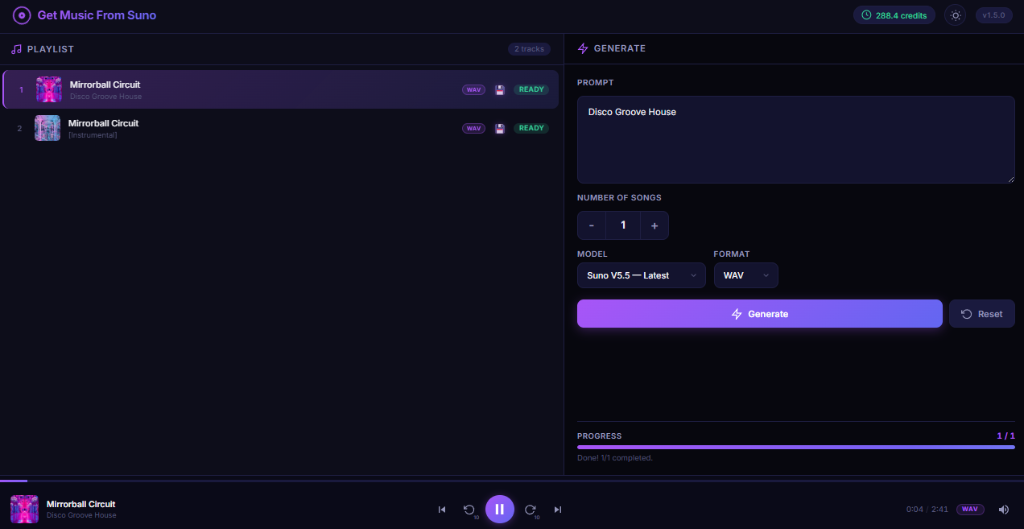
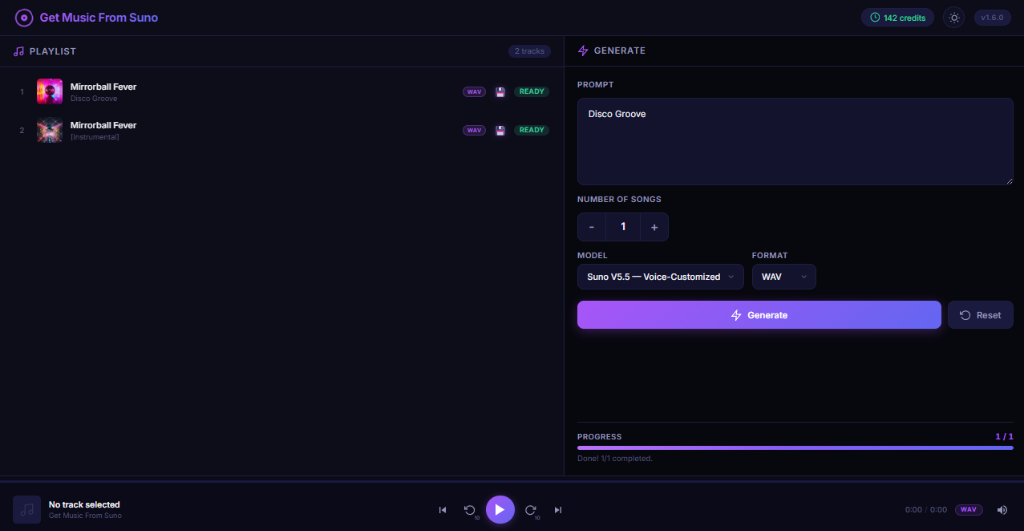
v1.6.1: Model tooltips, updated screenshots
- Custom model dropdown with hover tooltips showing descriptions

- Smart tooltip positioning (auto-flips near viewport edge)

- Body-appended tooltip to avoid backdrop-filter clipping

- Updated dark/light theme screenshots in README

- Bumped version to 1.6.1

diff --git a/public/style.css b/public/style.css
@@ -560,6 +560,166 @@ ul { list-style: none; }
   transform: translateY(-50%);
   color: var(--text-muted);
   pointer-events: none;
+  transition: transform var(--transition-fast);
+}
+
+/* ---------- Custom Model Dropdown ---------- */
+.model-dropdown-wrapper {
+  position: relative;
+  min-width: 200px;
+}
+
+.model-dropdown-trigger {
+  width: 100%;
+  padding: 10px 36px 10px 14px;
+  background: var(--bg-input);
+  border: 1px solid var(--border);
+  border-radius: var(--radius-md);
+  color: var(--text-primary);
+  font-family: inherit;
+  font-size: .85rem;
+  font-weight: 500;
+  cursor: pointer;
+  appearance: none;
+  display: flex;
+  align-items: center;
+  justify-content: space-between;
+  text-align: left;
+  transition: border-color var(--transition-fast), box-shadow var(--transition-fast);
+  position: relative;
+}
+.model-dropdown-trigger:hover {
+  border-color: var(--text-muted);
+}
+.model-dropdown-trigger:focus,
+.model-dropdown-wrapper.open .model-dropdown-trigger {
+  border-color: var(--accent-purple);
+  box-shadow: var(--shadow-glow);
+}
+
+.model-dropdown-wrapper.open .model-select-arrow {
+  transform: translateY(-50%) rotate(180deg);
+}
+
+.model-dropdown-value {
+  white-space: nowrap;
+  overflow: hidden;
+  text-overflow: ellipsis;
+  flex: 1;
+}
+
+/* Dropdown menu */
+.model-dropdown-menu {
+  position: absolute;
+  top: calc(100% + 4px);
+  left: 0;
+  right: 0;
+  background: var(--bg-panel);
+  border: 1px solid var(--border);
+  border-radius: var(--radius-md);
+  padding: 4px;
+  box-shadow: var(--shadow-md), 0 8px 32px rgba(0, 0, 0, .4);
+  z-index: 200;
+  opacity: 0;
+  visibility: hidden;
+  transform: translateY(-6px);
+  transition: opacity var(--transition-fast), transform var(--transition-fast), visibility var(--transition-fast);
+  backdrop-filter: blur(20px);
+}
+
+.model-dropdown-wrapper.open .model-dropdown-menu {
+  opacity: 1;
+  visibility: visible;
+  transform: translateY(0);
+}
+
+.model-dropdown-item {
+  display: flex;
+  align-items: center;
+  padding: 9px 12px;
+  border-radius: var(--radius-sm);
+  cursor: pointer;
+  font-size: .84rem;
+  font-weight: 500;
+  color: var(--text-primary);
+  transition: background var(--transition-fast), color var(--transition-fast);
+  position: relative;
+}
+.model-dropdown-item:hover {
+  background: var(--bg-panel-hover);
+}
+.model-dropdown-item.selected {
+  background: var(--gradient-glow);
+  color: var(--accent-purple);
+}
+.model-dropdown-item.selected::before {
+  content: '';
+  position: absolute;
+  left: 0;
+  top: 4px;
+  bottom: 4px;
+  width: 3px;
+  border-radius: 2px;
+  background: var(--gradient-primary);
+}
+
+.model-item-label {
+  flex: 1;
+  white-space: nowrap;
+  overflow: hidden;
+  text-overflow: ellipsis;
+}
+
+/* ---------- Model Tooltip Popup ---------- */
+.model-tooltip-popup {
+  position: fixed;
+  max-width: 260px;
+  padding: 12px 16px;
+  background: var(--bg-panel);
+  border: 1px solid var(--border);
+  border-radius: var(--radius-md);
+  box-shadow: var(--shadow-md), 0 8px 32px rgba(0, 0, 0, .5);
+  backdrop-filter: blur(20px);
+  z-index: 1000;
+  pointer-events: none;
+  opacity: 0;
+  visibility: hidden;
+  transition: opacity 180ms var(--ease), visibility 180ms var(--ease);
+  font-size: .78rem;
+  line-height: 1.55;
+  color: var(--text-secondary);
+  font-weight: 400;
+}
+
+.model-tooltip-popup.visible {
+  opacity: 1;
+  visibility: visible;
+}
+
+.model-tooltip-popup::before {
+  content: '';
+  position: absolute;
+  top: 50%;
+  width: 8px;
+  height: 8px;
+  background: var(--bg-panel);
+  border: 1px solid var(--border);
+  transform: translateY(-50%) rotate(45deg);
+}
+
+/* Arrow on the left side of tooltip (tooltip is to the right of menu) */
+.model-tooltip-popup.arrow-left::before {
+  left: -5px;
+  border-right: none;
+  border-top: none;
+}
+
+/* Arrow on the right side of tooltip (tooltip is to the left of menu) */
+.model-tooltip-popup.arrow-right::before {
+  right: -5px;
+  left: auto;
+  border-left: none;
+  border-bottom: none;
 }
 
 /* Actions */

diff --git a/public/app.js b/public/app.js
@@ -38,6 +38,10 @@
     btnGenerate: $('#btn-generate'),
     btnReset: $('#btn-reset'),
     modelSelect: $('#model-select'),
+    modelDropdown: $('#model-dropdown'),
+    modelDropdownTrigger: $('#model-dropdown-trigger'),
+    modelDropdownValue: $('#model-dropdown-value'),
+    modelDropdownMenu: $('#model-dropdown-menu'),
     formatSelect: $('#format-select'),
     // Progress
     progressCounter: $('#progress-counter'),
@@ -124,6 +128,77 @@
 
     // Theme toggle
     DOM.btnTheme.addEventListener('click', toggleTheme);
+
+    // Custom model dropdown
+    DOM.modelDropdownTrigger.addEventListener('click', (e) => {
+      e.stopPropagation();
+      DOM.modelDropdown.classList.toggle('open');
+    });
+
+    DOM.modelDropdownMenu.querySelectorAll('.model-dropdown-item').forEach(item => {
+      item.addEventListener('click', (e) => {
+        e.stopPropagation();
+        const value = item.dataset.value;
+        const label = item.querySelector('.model-item-label').textContent;
+        DOM.modelSelect.value = value;
+        DOM.modelDropdownValue.textContent = label;
+        // Update selected state
+        DOM.modelDropdownMenu.querySelectorAll('.model-dropdown-item').forEach(i => i.classList.remove('selected'));
+        item.classList.add('selected');
+        DOM.modelDropdown.classList.remove('open');
+      });
+    });
+
+    // Close dropdown on outside click
+    document.addEventListener('click', (e) => {
+      if (!DOM.modelDropdown.contains(e.target)) {
+        DOM.modelDropdown.classList.remove('open');
+      }
+    });
+
+    // Tooltip on hover — shared element appended to body (avoids backdrop-filter clipping)
+    const tooltipEl = document.createElement('div');
+    tooltipEl.className = 'model-tooltip-popup';
+    document.body.appendChild(tooltipEl);
+
+    DOM.modelDropdownMenu.querySelectorAll('.model-dropdown-item').forEach(item => {
+      item.addEventListener('mouseenter', () => {
+        const desc = item.dataset.tooltip;
+        if (!desc) return;
+
+        tooltipEl.textContent = desc;
+        tooltipEl.classList.add('visible');
+
+        const menuRect = DOM.modelDropdownMenu.getBoundingClientRect();
+        const itemRect = item.getBoundingClientRect();
+        const tooltipW = tooltipEl.offsetWidth;
+        const tooltipH = tooltipEl.offsetHeight;
+
+        // Position to the right of the dropdown menu
+        let left = menuRect.right + 12;
+        let arrowSide = 'left'; // arrow points left (tooltip is on the right)
+
+        // If it goes off-screen right, flip to left side
+        if (left + tooltipW > window.innerWidth - 10) {
+          left = menuRect.left - tooltipW - 12;
+          arrowSide = 'right'; // arrow points right (tooltip is on the left)
+        }
+
+        let top = itemRect.top + (itemRect.height / 2) - (tooltipH / 2);
+        if (top < 10) top = 10;
+        if (top + tooltipH > window.innerHeight - 10) {
+          top = window.innerHeight - tooltipH - 10;
+        }
+
+        tooltipEl.style.left = left + 'px';
+        tooltipEl.style.top = top + 'px';
+        tooltipEl.className = 'model-tooltip-popup visible arrow-' + arrowSide;
+      });
+
+      item.addEventListener('mouseleave', () => {
+        tooltipEl.classList.remove('visible');
+      });
+    });
 
     // Player
     DOM.btnPlay.addEventListener('click', togglePlay);
@@ -466,6 +541,10 @@
     DOM.promptInput.value = '';
     DOM.songCount.value = '1';
     DOM.modelSelect.value = 'V5_5';
+    DOM.modelDropdownValue.textContent = 'Suno V5.5 — Voice-Customized';
+    DOM.modelDropdownMenu.querySelectorAll('.model-dropdown-item').forEach(i => i.classList.remove('selected'));
+    DOM.modelDropdownMenu.querySelector('[data-value="V5_5"]').classList.add('selected');
+    DOM.modelDropdown.classList.remove('open');
     DOM.formatSelect.value = 'wav';
     DOM.playlistList.innerHTML = '';
     DOM.playlistEmpty.classList.remove('hidden');

diff --git a/public/index.html b/public/index.html
@@ -123,19 +123,35 @@
         <!-- Model & Format selectors (side by side) -->
         <div class="selectors-row">
           <div class="selector-group">
-            <label class="field-label" for="model-select">Model</label>
-            <div class="model-select-wrapper">
-              <select id="model-select" class="model-select">
-                <option value="V5_5" selected>Suno V5.5 — Latest</option>
-                <option value="V5">Suno V5</option>
-                <option value="V4_5PLUS">Suno V4.5 Plus</option>
-                <option value="V4_5ALL">Suno V4.5 All</option>
-                <option value="V4_5">Suno V4.5</option>
-                <option value="V4">Suno V4</option>
-              </select>
-              <svg class="model-select-arrow" width="14" height="14" viewBox="0 0 24 24" fill="none" stroke="currentColor" stroke-width="2">
-                <polyline points="6 9 12 15 18 9"/>
-              </svg>
+            <label class="field-label">Model</label>
+            <div class="model-dropdown-wrapper" id="model-dropdown">
+              <button type="button" class="model-dropdown-trigger" id="model-dropdown-trigger">
+                <span class="model-dropdown-value" id="model-dropdown-value">Suno V5.5 — Voice-Customized</span>
+                <svg class="model-select-arrow" width="14" height="14" viewBox="0 0 24 24" fill="none" stroke="currentColor" stroke-width="2">
+                  <polyline points="6 9 12 15 18 9"/>
+                </svg>
+              </button>
+              <input type="hidden" id="model-select" value="V5_5">
+              <ul class="model-dropdown-menu" id="model-dropdown-menu">
+                <li class="model-dropdown-item selected" data-value="V5_5" data-tooltip="Unleash Your Voice: Custom Models Tailored to Your Unique Taste.">
+                  <span class="model-item-label">Suno V5.5 — Voice-Customized</span>
+                </li>
+                <li class="model-dropdown-item" data-value="V5" data-tooltip="Cutting-edge model with enhanced quality and capabilities. Our newest offering for advanced music generation.">
+                  <span class="model-item-label">Suno V5 — Latest Model</span>
+                </li>
+                <li class="model-dropdown-item" data-value="V4_5PLUS" data-tooltip="Most advanced model with enhanced tonal variation and new creative approaches, up to 8 minutes. Best choice for highest quality and longest tracks.">
+                  <span class="model-item-label">Suno V4.5 Plus — Richer Tones</span>
+                </li>
+                <li class="model-dropdown-item" data-value="V4_5ALL" data-tooltip="V4.5-all is better song structure, max 8 min. Perfect for well-structured musical pieces.">
+                  <span class="model-item-label">Suno V4.5 All — Better Structure</span>
+                </li>
+                <li class="model-dropdown-item" data-value="V4_5" data-tooltip="Excellent prompt understanding with faster generation speeds, up to 8 minutes. Our advanced model for complex music requests.">
+                  <span class="model-item-label">Suno V4.5 — Smart Prompts</span>
+                </li>
+                <li class="model-dropdown-item" data-value="V4" data-tooltip="Enhanced vocal quality and refined audio processing, up to 4 minutes. Ideal choice when vocal clarity is paramount.">
+                  <span class="model-item-label">Suno V4 — Improved Vocals</span>
+                </li>
+              </ul>
             </div>
           </div>
           <div class="selector-group">

diff --git a/README.md b/README.md
@@ -1,6 +1,6 @@
 # 🎵 Get Music From Suno — AI Music Generator
 
-[![Version](https://img.shields.io/badge/version-1.6.0-purple.svg)](https://github.com/kizer2m/GetMusicFromSuno)
+[![Version](https://img.shields.io/badge/version-1.6.1-purple.svg)](https://github.com/kizer2m/GetMusicFromSuno)
 [![License: MIT](https://img.shields.io/badge/License-MIT-green.svg)](LICENSE)
 [![Node.js](https://img.shields.io/badge/Node.js-18%2B-brightgreen.svg)](https://nodejs.org/)
 [![Suno API](https://img.shields.io/badge/Suno_API-v5.5-blue.svg)](https://sunoapi.org)
@@ -27,6 +27,7 @@
 |---------|-------------|
 | **Text-to-Music** | Describe any genre, mood, or style — AI creates full songs |
 | **Suno V5.5 / V5 / V4.5+ / V4.5 All / V4.5 / V4** | Choose from 6 Suno AI model versions |
+| **Model Tooltips** | Hover any model for a description of its capabilities |
 | **WAV + MP3 Download** | Lossless WAV or compressed MP3 — automatic conversion |
 | **Built-in Audio Player** | Play, pause, skip, seek, rewind/forward 10s, volume control |
 | **Batch Generation** | Generate 1–20 songs per prompt |
@@ -127,7 +128,7 @@ Replace `your_api_key_here` with your actual API key from [sunoapi.org](https://
 |---------|--------|
 | Prompt textarea | Describe the music you want |
 | Song count (+/-) | Set how many songs to generate (1–20) |
-| Model selector | Choose Suno model (V5.5, V5, V4.5+, V4.5 All, V4.5, V4) |
+| Model selector | Choose Suno model (V5.5, V5, V4.5+, V4.5 All, V4.5, V4) — hover for details |
 | Format selector | Choose WAV (lossless) or MP3 |
 | ⚡ Generate | Start AI music generation |
 | 🔄 Reset | Clear prompt, playlist, and counters |
@@ -178,6 +179,11 @@ GetMusicFromSuno/
 ---
 
 ## 📋 Changelog
+
+### v1.6.1
+- Custom model dropdown with hover tooltips showing model descriptions
+- Smart tooltip positioning (auto-flips near viewport edge)
+- Updated screenshots with new UI
 
 ### v1.6.0
 - Model selector updated to match sunoapi.org API: V5.5, V5, V4.5 Plus, V4.5 All, V4.5, V4
